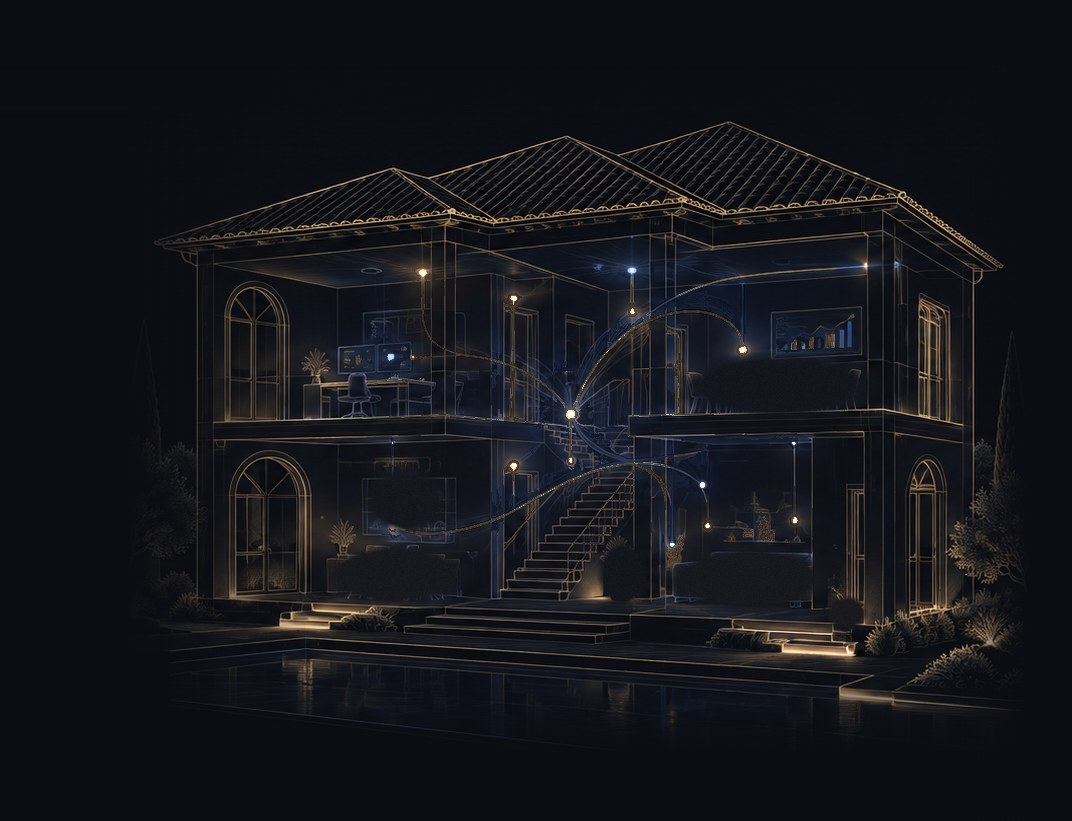
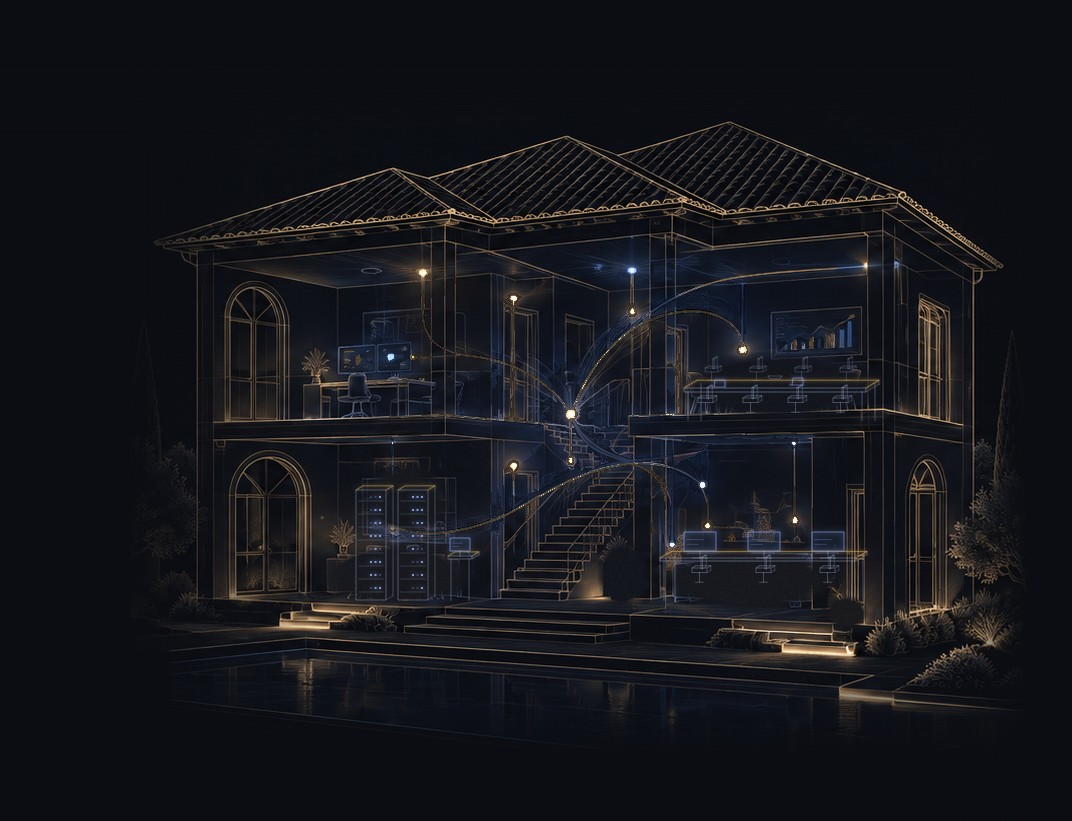
Casa do hero agora tem ambientes corporativos
Troca de img/hero-casa.jpg pela versão nova do handoff: a mobília doméstica
que tinha sido apagada deu lugar a ambientes de trabalho desenhados no mesmo
traço da ilustração — sala de reunião no andar de cima à direita, estações
de trabalho embaixo à direita e sala de servidores embaixo à esquerda.

A máscara img/hero-casa-luz.png não mudou (mesmo arquivo, byte a byte), então
o grafo de 12 nós e 12 arestas continua valendo e os pulsos seguem em cima
dos rastros. Verificado em 1024px e 1440px.

README e docs/handoff-hero-casa-de-luz.md atualizados com a descrição nova.

Claude-Session: https://claude.ai/code/session_01PQiUzJ7UKzkUWmuBq9rkiw

Changed region(s): [[0.3386, 0.5786, 0.4618, 0.7308], [0.6157, 0.6395, 0.8312, 0.7004], [0.6465, 0.4568, 0.8312, 0.4872]]

diff --git a/en/index.html b/en/index.html
@@ -375,9 +375,11 @@ button {
 .hero > * { position: relative; }
 
 /* A casa de luz: ilustração em corte da marca — paredes, telhado e os
-   rastros entre os cômodos. Sentada à direita e no rodapé do hero, com as
-   bordas já esmaecidas no próprio arquivo. Por cima, .hero__pulsos acende
-   só os rastros de luz. */
+   rastros entre os cômodos, que são ambientes de trabalho (sala de reunião
+   em cima à direita, estações embaixo à direita, sala de servidores embaixo
+   à esquerda). Sentada à direita e no rodapé do hero, com as bordas já
+   esmaecidas no próprio arquivo. Por cima, .hero__pulsos acende só os
+   rastros de luz. */
 .hero__art {
   position: absolute;
   right: 0;

diff --git a/index.html b/index.html
@@ -375,9 +375,11 @@ button {
 .hero > * { position: relative; }
 
 /* A casa de luz: ilustração em corte da marca — paredes, telhado e os
-   rastros entre os cômodos. Sentada à direita e no rodapé do hero, com as
-   bordas já esmaecidas no próprio arquivo. Por cima, .hero__pulsos acende
-   só os rastros de luz. */
+   rastros entre os cômodos, que são ambientes de trabalho (sala de reunião
+   em cima à direita, estações embaixo à direita, sala de servidores embaixo
+   à esquerda). Sentada à direita e no rodapé do hero, com as bordas já
+   esmaecidas no próprio arquivo. Por cima, .hero__pulsos acende só os
+   rastros de luz. */
 .hero__art {
   position: absolute;
   right: 0;

diff --git a/docs/handoff-hero-casa-de-luz.md b/docs/handoff-hero-casa-de-luz.md
@@ -25,7 +25,7 @@ Os arquivos em `design/` são **referências de design em HTML** — um protóti
     vertical `transparent 0 → #000 22% → #000 82% → transparent 100%`
     (`mask-composite: intersect` / `-webkit-mask-composite: source-in`).
   - Atributos: `alt=""`, `aria-hidden="true"`, `decoding="async"`, `fetchpriority="high"`, `width="1072" height="821"`.
-  - A imagem já vem com: fundo remapeado para `#0B0D12`, bordas esmaecidas no arquivo, mobília doméstica removida (mesa de jantar, sofá, estante, vasos — ficaram estação de trabalho, painel de gráficos e escada, leitura de escritório) e **rastros entre cômodos adormecidos** (escurecidos ~62%); só as lâmpadas ficam acesas.
+  - A imagem já vem com: fundo remapeado para `#0B0D12`, bordas esmaecidas no arquivo, mobília doméstica substituída por ambientes corporativos desenhados no mesmo traço da ilustração (linha fina azul-cinza, arestas em ocre, telas em azul): **sala de reunião** no andar de cima à direita (mesa longa, 8 cadeiras, laptops, telefone de conferência), **estações de trabalho** embaixo à direita (bancada, 3 monitores, cadeiras) e **sala de servidores** embaixo à esquerda (2 racks com LEDs, terminal de monitoramento) e **rastros entre cômodos adormecidos** (escurecidos ~62%); só as lâmpadas ficam acesas.
 
   **2. `canvas.hero__pulsos#hero-pulsos`** — camada dos pulsos
   - `position: absolute; pointer-events: none; mix-blend-mode: screen`
@@ -72,7 +72,7 @@ Só estado local do módulo (`P`): `raf`, `last`, `list` (pulsos vivos), `glow` 
 - Breakpoint da arte: 880px.
 
 ## Assets
-- `design/img/hero-casa.jpg` — ilustração base (1072×821). Derivada da imagem gerada em `reference/referencia-original.png` (recorte x≥600, y 80–901; fundo remapeado; mobília apagada; rastros escurecidos; bordas esmaecidas).
+- `design/img/hero-casa.jpg` — ilustração base (1072×821). Derivada da imagem gerada em `reference/referencia-original.png` (recorte x≥600, y 80–901; fundo remapeado; mobília doméstica apagada com a névoa local; rastros escurecidos; ambientes corporativos desenhados por cima; bordas esmaecidas).
 - `design/img/hero-casa-luz.png` — máscara dos rastros: alpha = `((lum − 95)/90)²` da imagem **ainda acesa**, RGB branco. Se a ilustração for regenerada, gere a máscara de novo pelo mesmo critério e retrace as polilinhas das arestas (menor custo pela máscara entre os nós) — sem isso os pulsos saem do rastro.
 - A arte é gerada por IA e tem artefatos de perto; uma versão em resolução maior e já sem móveis domésticos daria um recorte mais limpo.
 

diff --git a/README.md b/README.md
@@ -102,7 +102,10 @@ ele estiver anexado ao projeto na Vercel.
 A arte do hero são dois arquivos que andam juntos. `img/hero-casa.jpg`
 (1072×821) é a ilustração da casa em corte — fundo já remapeado para `--bg`,
 bordas esmaecidas no próprio arquivo e os rastros entre os cômodos escurecidos,
-só as lâmpadas acesas. `img/hero-casa-luz.png` é a máscara: alpha só onde há
+só as lâmpadas acesas. Os cômodos são ambientes de trabalho, desenhados no
+traço da própria ilustração: sala de reunião no andar de cima à direita,
+estações de trabalho embaixo à direita e sala de servidores embaixo à
+esquerda. `img/hero-casa-luz.png` é a máscara: alpha só onde há
 rastro de luz, e é ela que recorta o `<canvas>` dos pulsos — por isso o brilho
 aparece sobre o caminho e nunca acende a parede ao lado.
 
@@ -244,9 +247,10 @@ estar nessa lista**. (O provider Google já está ativo no projeto.)
   por um canal só. Quando o
   domínio entrar, é aqui que o endereço muda.
 - **Resolução da casa do hero** — `img/hero-casa.jpg` é arte gerada por IA e
-  tem artefatos quando se olha de perto. Uma versão em resolução maior, já sem
-  a mobília doméstica, daria um recorte mais limpo — e aí a máscara e as
-  arestas se regeneram junto (ver "Hero: a casa de luz").
+  tem artefatos quando se olha de perto; os ambientes corporativos foram
+  desenhados por cima da mobília doméstica original. Uma versão em resolução
+  maior, já nascida como escritório, daria um recorte mais limpo — e aí a
+  máscara e as arestas se regeneram junto (ver "Hero: a casa de luz").
 
 ## Desvio do design
 
